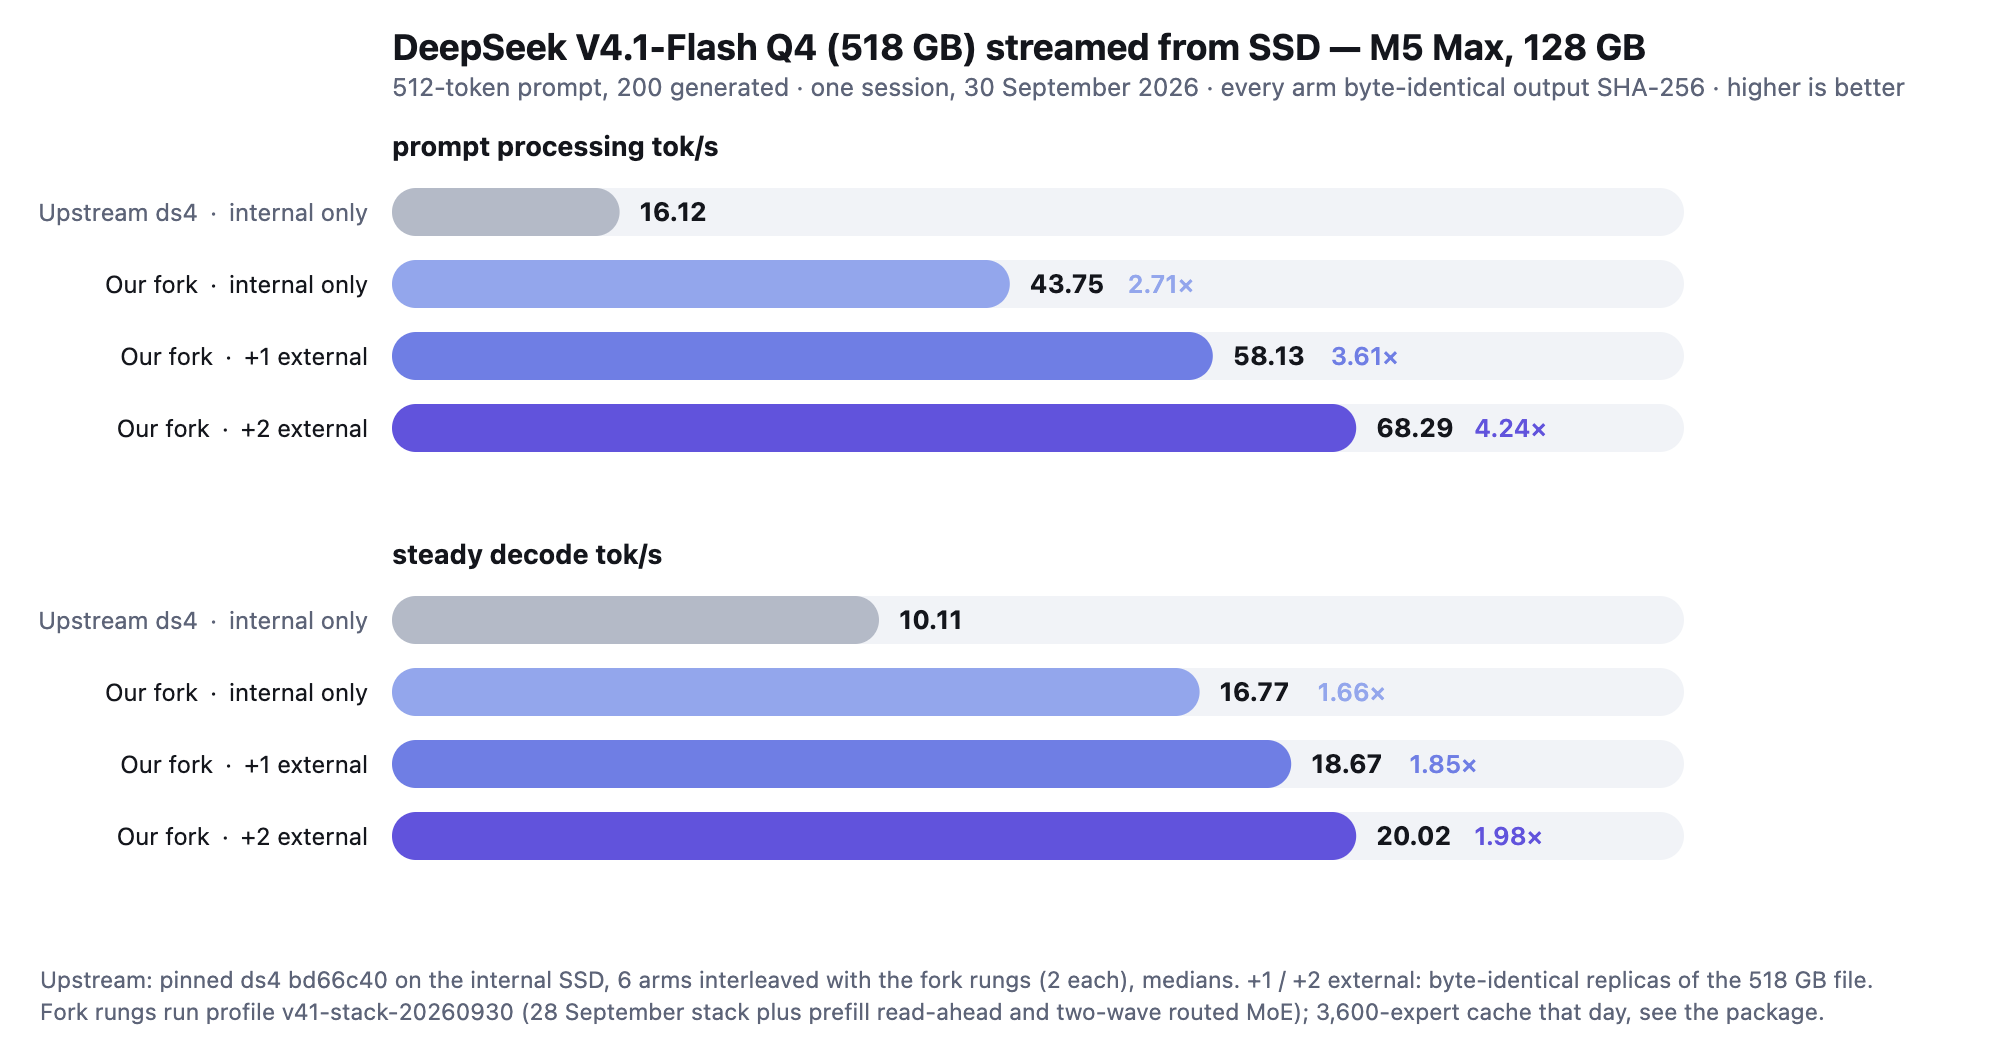
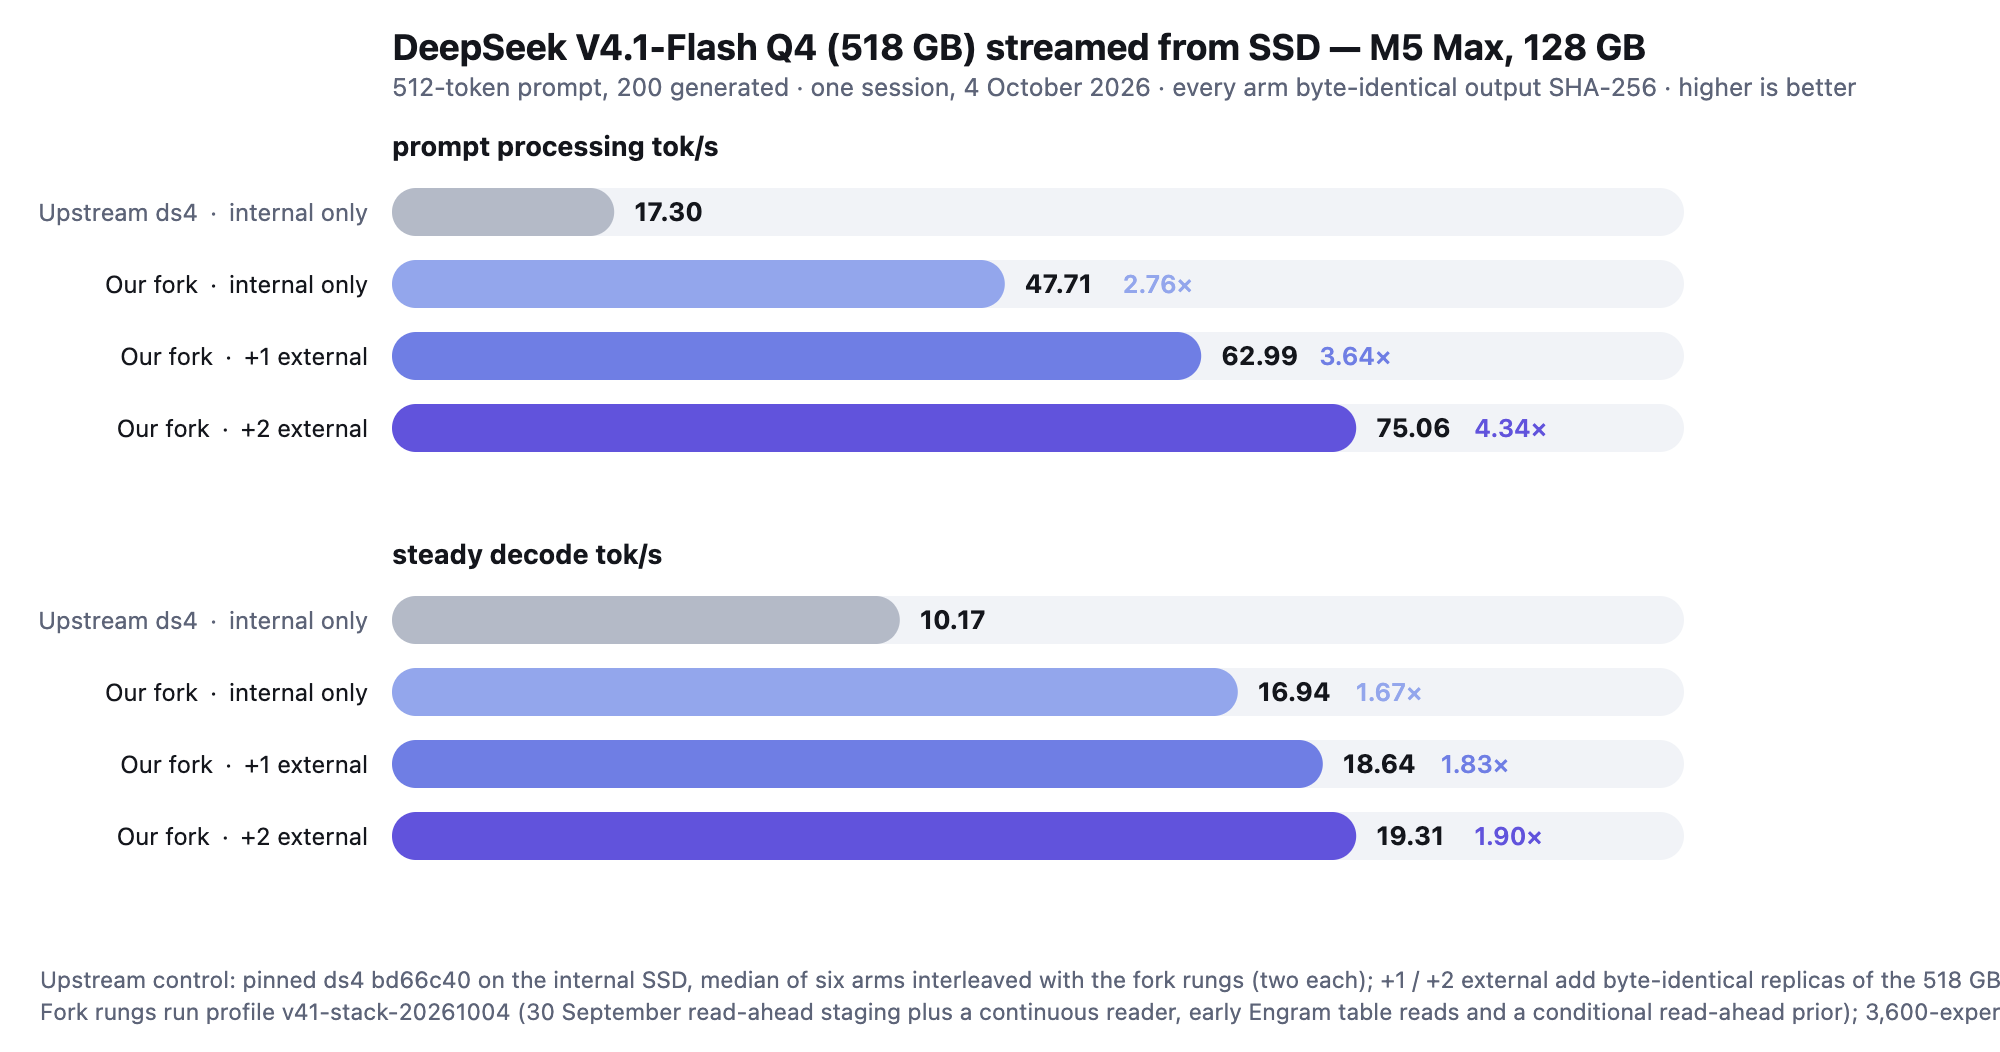
charts: DeepSeek prefill ladder with the 4 October profile (one session against pinned upstream, cache 3,600)

diff --git a/README.md b/README.md
@@ -81,17 +81,18 @@ the branch.
   <img src="charts/ladder.svg" alt="DeepSeek V4.1-Flash Q4 streamed from SSD on an M5 Max, one interleaved session on 2026-09-27. Prompt processing: upstream ds4 on the internal SSD 17.96 tok/s; our fork 30.98 on the same single drive (1.72x), 36.88 with one external (2.05x), 42.41 with two (2.36x). Steady decode: upstream 10.18; our fork 18.66 (1.83x), 21.05 (2.07x), 22.25 (2.19x).">
 </picture>
 
-**30 September, prefill.** Read-ahead staging (the next layer's likeliest experts are read while the GPU computes the
-current one, ranked by a hotlist built from other prompts) and a two-wave routed MoE lift prompt processing to
-**43.75 tok/s on one drive** (2.71× upstream) and **68.29 with two enclosures** (4.24×),
-qualified against our 28 September binary at +50.6% (512/512) and +49.6% (512/200) with byte-identical output
-and decode unchanged. That session ran the fork rungs at a 3,600-expert cache (the 4,600 cache tripped the swap guard
-on an un-rebooted machine), so its decode rungs sit below the chart above, which stays the decode reference.
-[Qualification package](https://github.com/argonautlabsai/ds4-argodrive/blob/v41-stack-20260930/argodrive/candidates/2026-09-30-prefill/README.md) · [Ladder package](https://github.com/argonautlabsai/ds4-argodrive/blob/v41-stack-20260930/argodrive/candidates/2026-09-30-ladder/README.md)
+**4 October, prefill.** On top of the 30 September read-ahead staging: a continuous prefill reader, Engram
+row-table reads on upstream's prefetch thread from the first layer, and a conditional read-ahead prior (how often an
+expert at one layer followed each expert of the previous layer in 19 other prompts, applied to the prompt's own
+routing). Prompt processing **47.71 tok/s on one drive** (2.76× upstream) and **75.06 with two enclosures**
+(4.34×), qualified against our 30 September binary at +6.4% (512/512) and +6.5% (512/200) with
+byte-identical output. Fork rungs again at a 3,600-expert cache (see the 30 September note above), so the decode rungs sit
+below the first chart, which stays the decode reference. The 30 September session measured 16.12 / 43.75 / 58.13 / 68.29.
+[Qualification package](https://github.com/argonautlabsai/ds4-argodrive/blob/v41-stack-20261004/argodrive/candidates/2026-10-04-engram/README.md) · [Ladder package](https://github.com/argonautlabsai/ds4-argodrive/blob/v41-stack-20261004/argodrive/candidates/2026-10-04-ladder/README.md)
 
 <picture>
   <source media="(prefers-color-scheme: dark)" srcset="charts/ladder-prefill-dark.svg">
-  <img src="charts/ladder-prefill.svg" alt="DeepSeek V4.1-Flash Q4 with the 30 September prefill profile, one interleaved session against pinned upstream. Prompt processing: upstream 16.12 tok/s on the internal SSD; our fork 43.75 on the same single drive, 58.13 with one external, 68.29 with two. Steady decode at a 3,600-expert cache: 10.11, 16.77, 18.67, 20.02.">
+  <img src="charts/ladder-prefill.svg" alt="DeepSeek V4.1-Flash Q4 with the 4 October prefill profile, one interleaved session against pinned upstream. Prompt processing: upstream 17.30 tok/s on the internal SSD; our fork 47.71 on the same SSD, 62.99 with one enclosure, 75.06 with two. Steady decode: 10.17 upstream; 16.94, 18.64, 19.31 for the fork at a 3,600-expert cache.">
 </picture>
 
 **The first fork row needs no extra hardware.** Upstream's prefill sweep reads every expert
